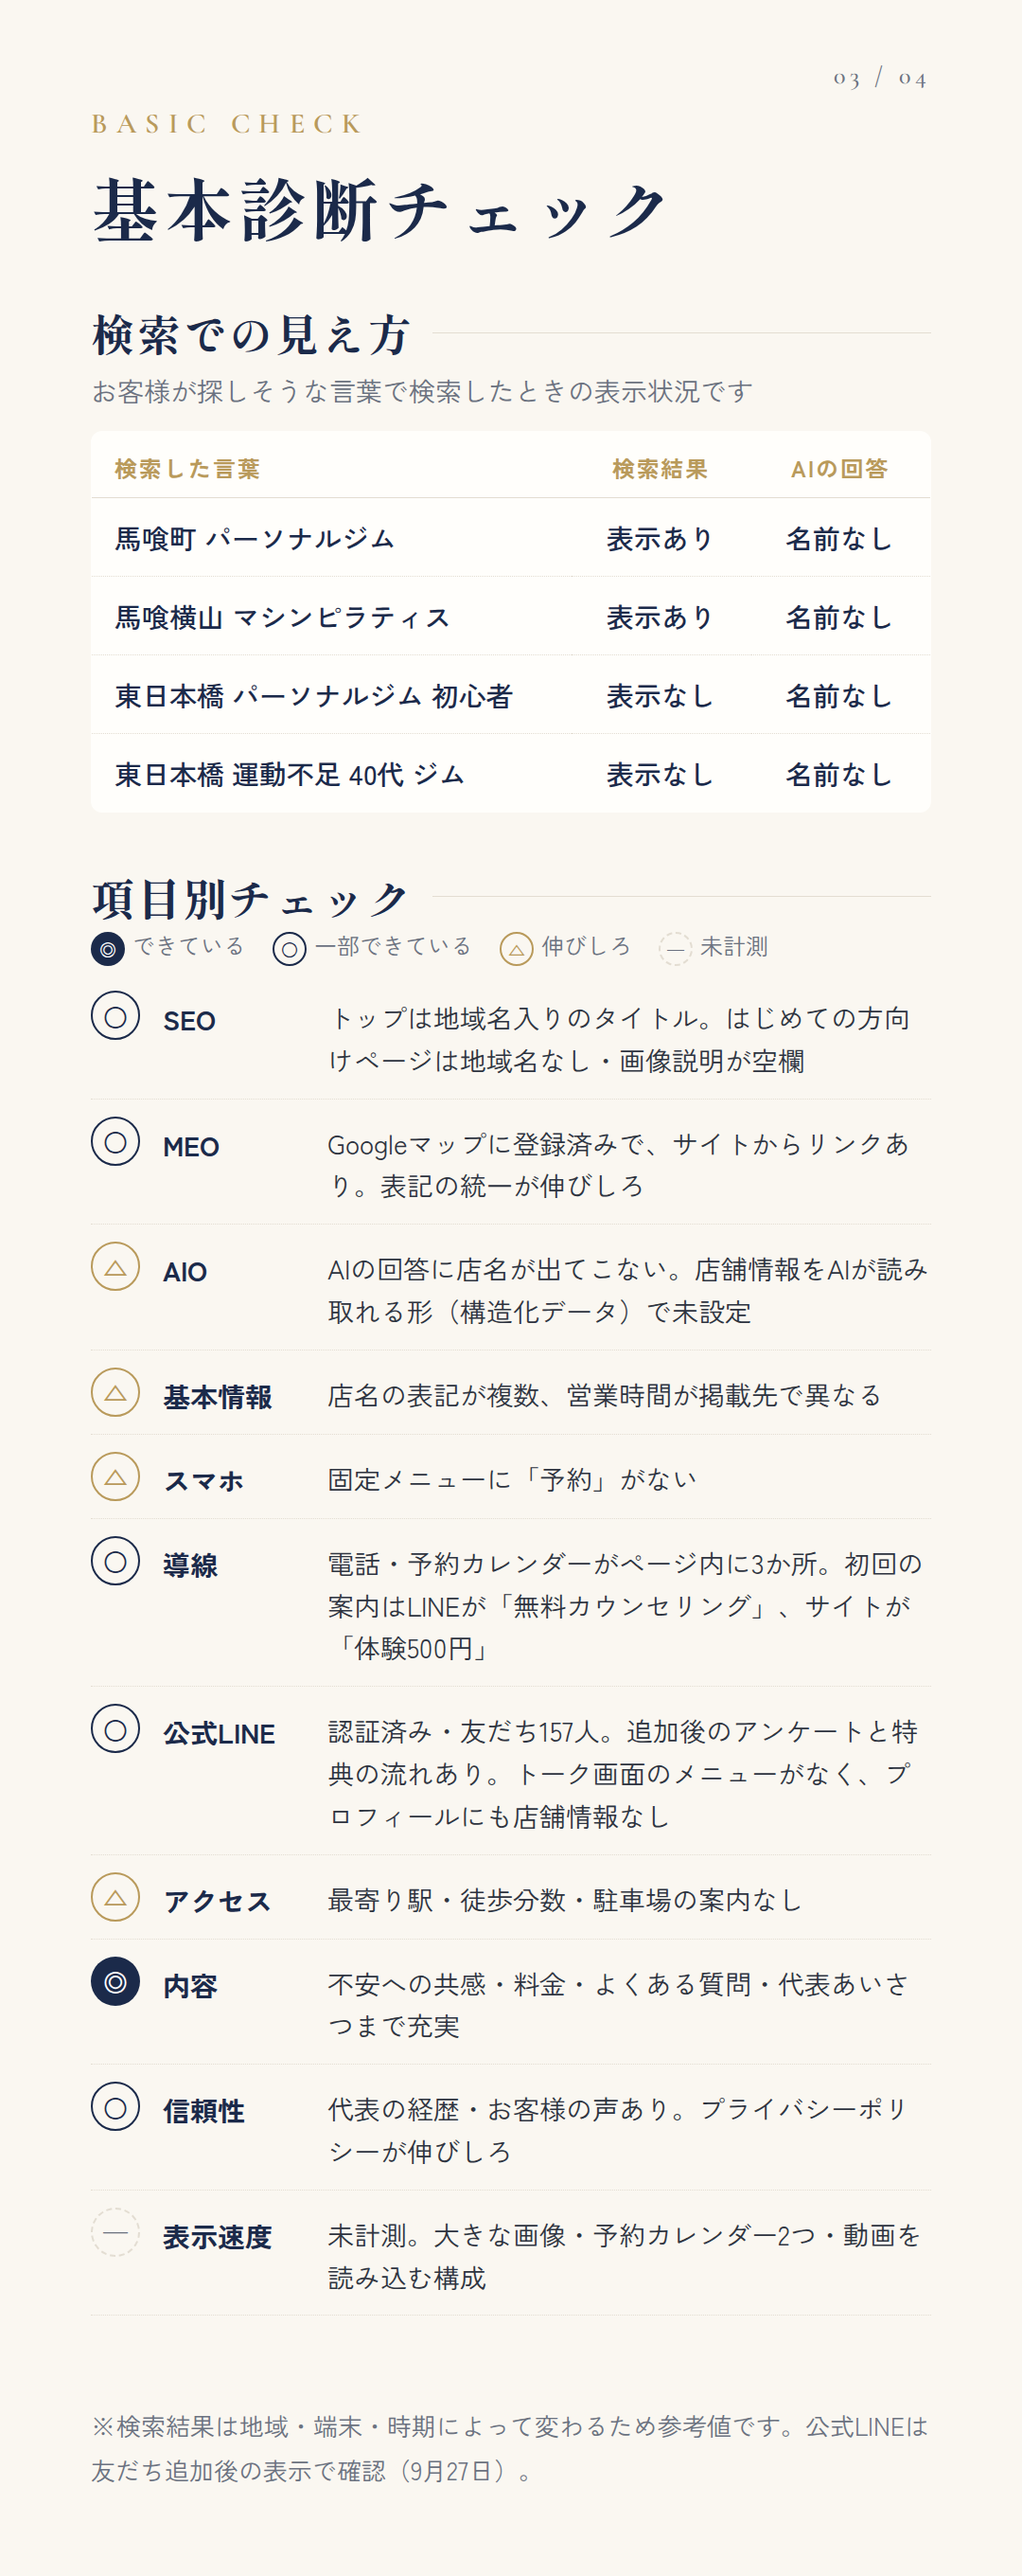
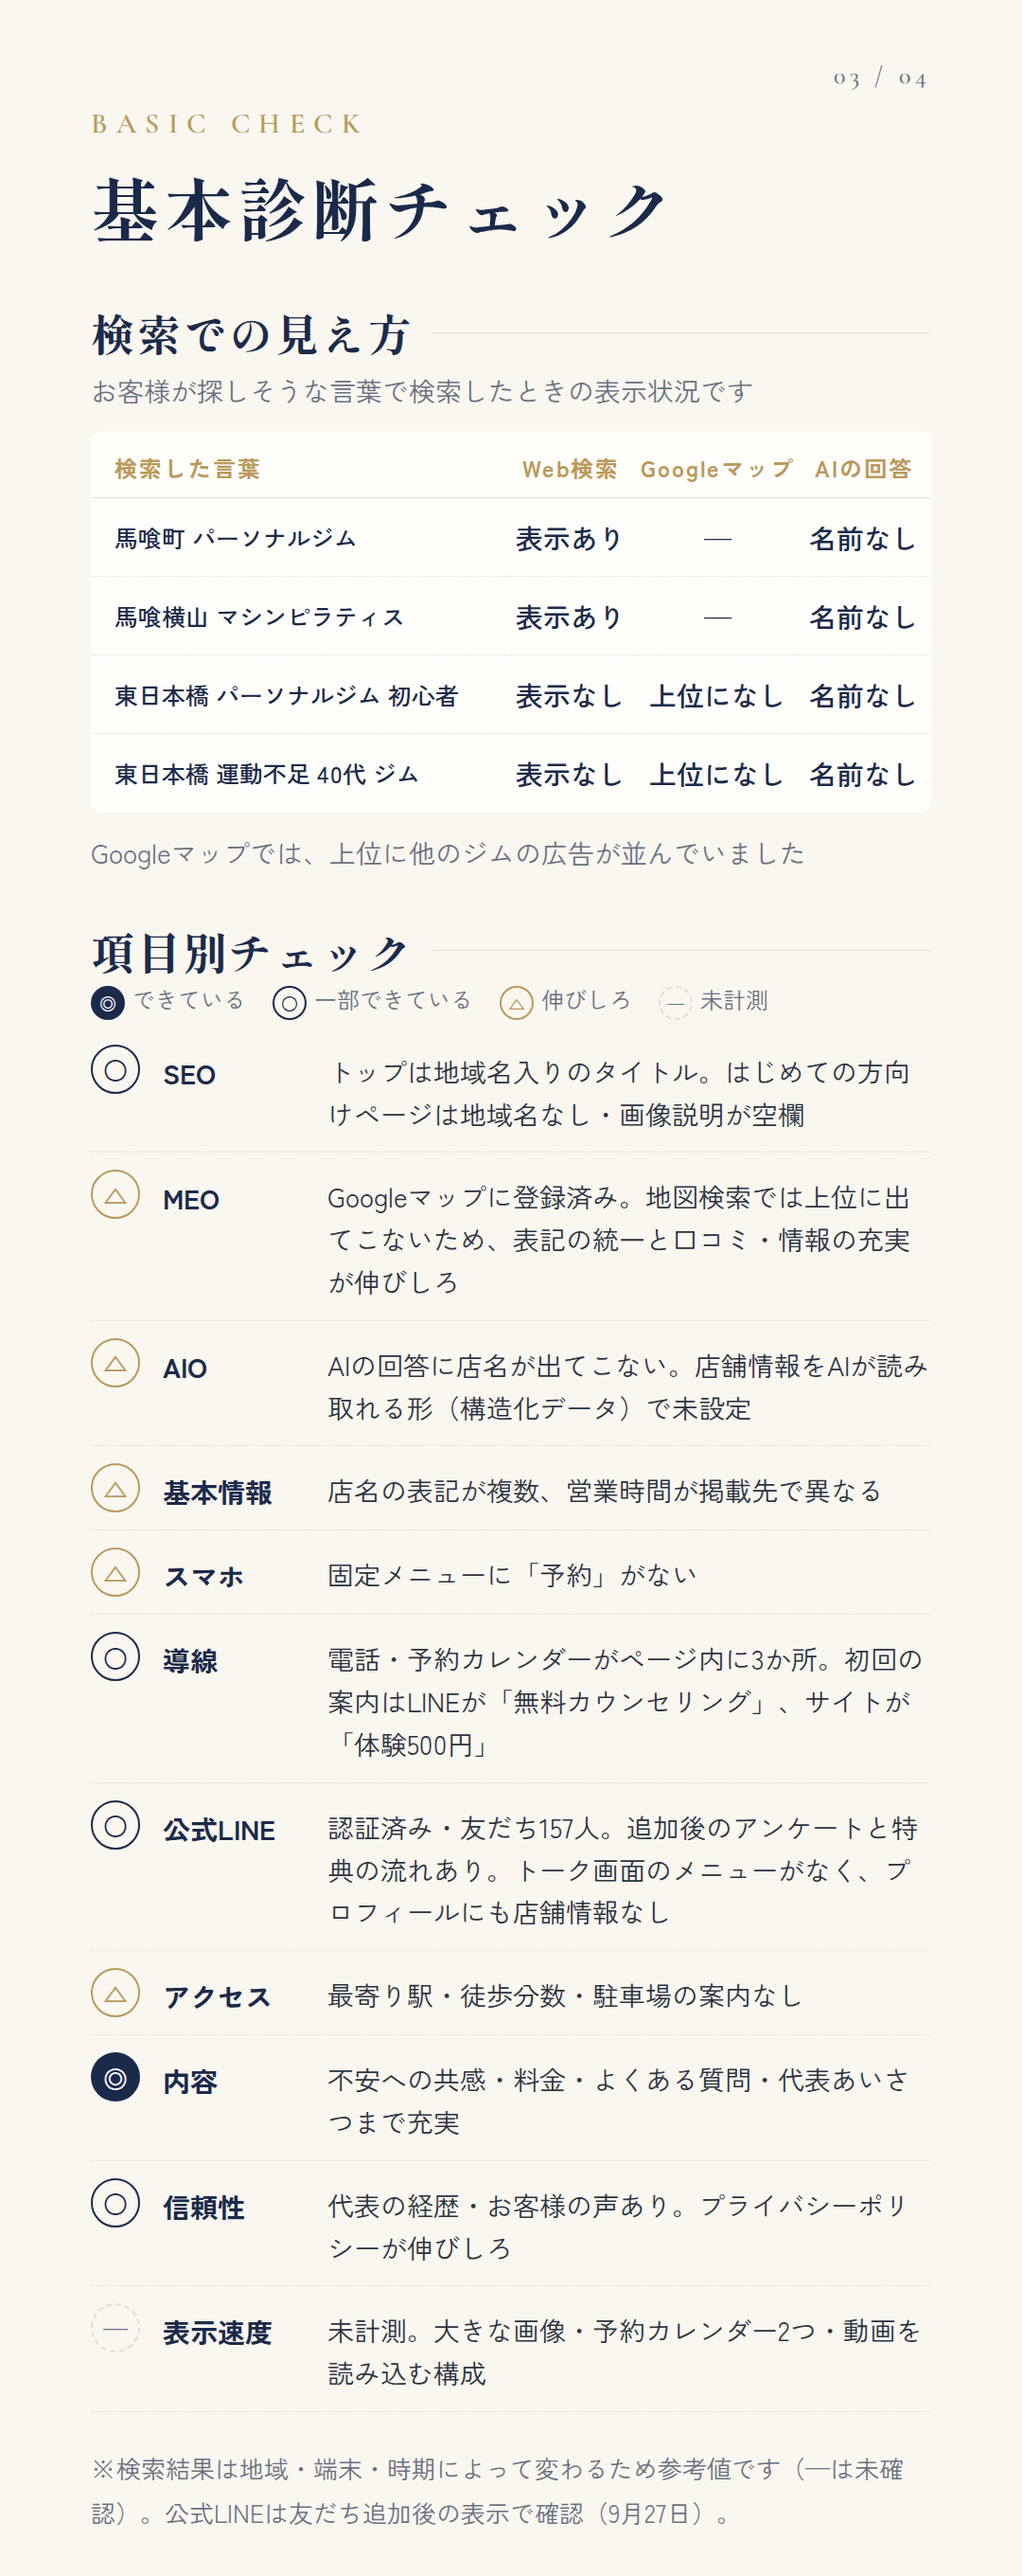
Add Google Maps results to basic check
Claude-Session: https://claude.ai/code/session_01Bsyju6n5ByhgCXtZwvMtoS

diff --git a/web_check/8x8_conditioning_lab.html b/web_check/8x8_conditioning_lab.html
@@ -68,7 +68,8 @@
   .sub-h{ font-size:28px; color:var(--sub); margin:6px 0 20px; line-height:1.6; }
   table.hit{ width:100%; border-collapse:collapse; background:var(--white); border:1px solid var(--line); border-radius:12px; overflow:hidden; margin-bottom:56px; }
   table.hit th{ font-size:24px; color:var(--gold); font-weight:700; letter-spacing:.08em; text-align:left; padding:20px 24px 14px; border-bottom:1px solid var(--line); }
-  table.hit th.c, table.hit td.c{ text-align:center; width:190px; white-space:nowrap; padding-left:8px; padding-right:8px; }
+  table.hit th.c, table.hit td.c{ text-align:center; width:140px; white-space:nowrap; padding-left:4px; padding-right:4px; }
+  table.hit td:first-child{ font-size:25px; white-space:nowrap; padding-right:4px; }
   table.hit td{ font-size:29px; padding:20px 24px; border-bottom:1px dotted var(--line); color:var(--navy); font-weight:500; }
   table.hit tr:last-child td{ border-bottom:none; }
   .yes{ color:var(--navy); font-weight:700; }
@@ -181,18 +182,19 @@
   <h2>検索での見え方</h2>
   <p class="sub-h">お客様が探しそうな言葉で検索したときの表示状況です</p>
   <table class="hit">
-    <tr><th>検索した言葉</th><th class="c">検索結果</th><th class="c">AIの回答</th></tr>
-    <tr><td>馬喰町 パーソナルジム</td><td class="c yes">表示あり</td><td class="c no-hit">名前なし</td></tr>
-    <tr><td>馬喰横山 マシンピラティス</td><td class="c yes">表示あり</td><td class="c no-hit">名前なし</td></tr>
-    <tr><td>東日本橋 パーソナルジム 初心者</td><td class="c no-hit">表示なし</td><td class="c no-hit">名前なし</td></tr>
-    <tr><td>東日本橋 運動不足 40代 ジム</td><td class="c no-hit">表示なし</td><td class="c no-hit">名前なし</td></tr>
+    <tr><th>検索した言葉</th><th class="c">Web検索</th><th class="c">Googleマップ</th><th class="c">AIの回答</th></tr>
+    <tr><td>馬喰町 パーソナルジム</td><td class="c yes">表示あり</td><td class="c no-hit">—</td><td class="c no-hit">名前なし</td></tr>
+    <tr><td>馬喰横山 マシンピラティス</td><td class="c yes">表示あり</td><td class="c no-hit">—</td><td class="c no-hit">名前なし</td></tr>
+    <tr><td>東日本橋 パーソナルジム 初心者</td><td class="c no-hit">表示なし</td><td class="c no-hit">上位になし</td><td class="c no-hit">名前なし</td></tr>
+    <tr><td>東日本橋 運動不足 40代 ジム</td><td class="c no-hit">表示なし</td><td class="c no-hit">上位になし</td><td class="c no-hit">名前なし</td></tr>
   </table>
+  <p class="sub-h" style="margin-top:-36px;margin-bottom:48px">Googleマップでは、上位に他のジムの広告が並んでいました</p>
 
   <h2>項目別チェック</h2>
   <div class="legend"><span><span class="mk a">◎</span>できている</span><span><span class="mk b">○</span>一部できている</span><span><span class="mk c">△</span>伸びしろ</span><span><span class="mk d">—</span>未計測</span></div>
   <div class="chk">
     <div class="row"><span class="mk b">○</span><div class="k">SEO</div><div class="v">トップは地域名入りのタイトル。はじめての方向けページは地域名なし・画像説明が空欄</div></div>
-    <div class="row"><span class="mk b">○</span><div class="k">MEO</div><div class="v">Googleマップに登録済みで、サイトからリンクあり。表記の統一が伸びしろ</div></div>
+    <div class="row"><span class="mk c">△</span><div class="k">MEO</div><div class="v">Googleマップに登録済み。地図検索では上位に出てこないため、表記の統一と口コミ・情報の充実が伸びしろ</div></div>
     <div class="row"><span class="mk c">△</span><div class="k">AIO</div><div class="v">AIの回答に店名が出てこない。店舗情報をAIが読み取れる形（構造化データ）で未設定</div></div>
     <div class="row"><span class="mk c">△</span><div class="k">基本情報</div><div class="v">店名の表記が複数、営業時間が掲載先で異なる</div></div>
     <div class="row"><span class="mk c">△</span><div class="k">スマホ</div><div class="v">固定メニューに「予約」がない</div></div>
@@ -204,7 +206,7 @@
     <div class="row"><span class="mk d">—</span><div class="k">表示速度</div><div class="v">未計測。大きな画像・予約カレンダー2つ・動画を読み込む構成</div></div>
   </div>
 
-  <p class="note">※検索結果は地域・端末・時期によって変わるため参考値です。公式LINEは友だち追加後の表示で確認（9月27日）。</p>
+  <p class="note">※検索結果は地域・端末・時期によって変わるため参考値です（—は未確認）。公式LINEは友だち追加後の表示で確認（9月27日）。</p>
 </section>
 
 <!-- ===== 4枚目 ===== -->
